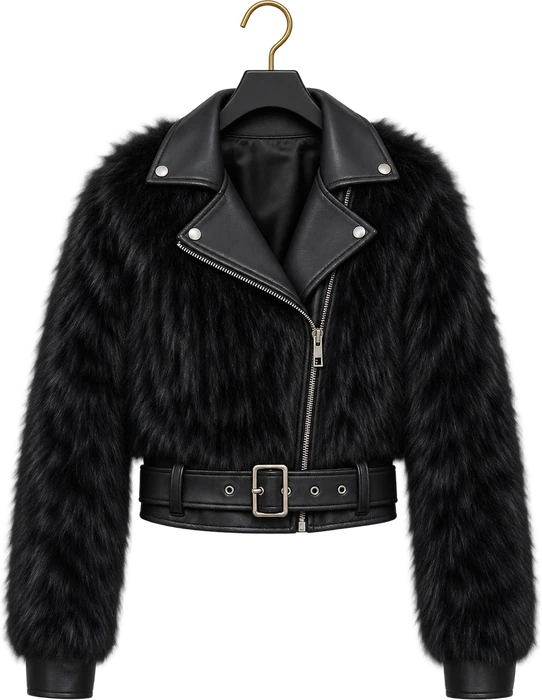
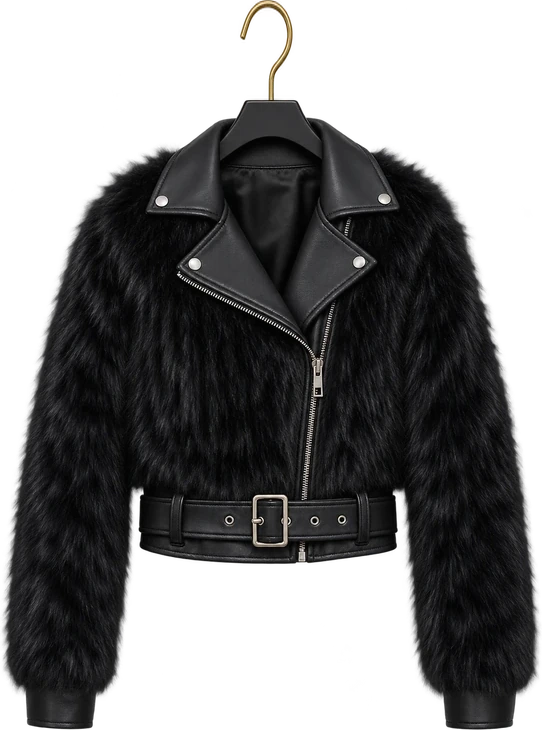
Vitrine: cabides na mesma altura (ganchos de tamanho igual), jaqueta vinho, conjunto caramelo e vestido creme espelhados
Claude-Session: https://claude.ai/code/session_01JWzVUcZkAyRrpFP19gM6id

diff --git a/index.html b/index.html
@@ -1674,7 +1674,7 @@ function basketSway(){
    As imagens já trazem gancho dourado e cabide; cada gancho é alinhado à barra da arara. */
 (function evyMountStorePieces(){
  const SW=1671,SH=941,BAR_Y=187.5,CX0=492,CSTEP=56.33;
- const cfg=[{"id": "biker", "label": "Jaqueta biker preta", "H": 236, "front": {"src": "assets/pecas/jaqueta-biker-frontal.png", "w": 290, "h": 426, "rx": 0.5183, "ry": 0.0385}, "side": {"src": "assets/pecas/jaqueta-biker-lateral.png", "w": 196, "h": 433, "rx": 0.4908, "ry": 0.0393}}, {"id": "pelobiker", "label": "Jaqueta biker com pelo", "H": 236, "front": {"src": "assets/pecas/jaqueta-pelo-frontal.webp", "w": 542, "h": 700, "rx": 0.4713, "ry": 0.0113}, "side": {"src": "assets/pecas/jaqueta-pelo-frontal.webp", "w": 542, "h": 700, "rx": 0.4713, "ry": 0.0113}}, {"id": "fur", "label": "Casaco preto de pelos", "H": 250, "front": {"src": "assets/pecas/casaco-pelo-frontal.png", "w": 319, "h": 446, "rx": 0.5043, "ry": 0.0361}, "side": {"src": "assets/pecas/casaco-pelo-lateral.png", "w": 218, "h": 465, "rx": 0.4928, "ry": 0.0351}}, {"id": "redinha", "label": "Body de redinha preto", "H": 312, "front": {"src": "assets/pecas/body-redinha-frontal.webp", "w": 377, "h": 700, "rx": 0.5013, "ry": 0.0164}, "side": {"src": "assets/pecas/body-redinha-lateral.webp", "w": 366, "h": 700, "rx": 0.4988, "ry": 0.0281}}, {"id": "renda", "label": "Vestido preto de renda com corset", "H": 425, "front": {"src": "assets/pecas/vestido-renda-frontal.webp", "w": 351, "h": 700, "rx": 0.4621, "ry": 0.0096}, "side": {"src": "assets/pecas/vestido-renda-lateral.webp", "w": 290, "h": 700, "rx": 0.4984, "ry": 0.0087}}, {"id": "assimetrico", "label": "Vestido preto assimétrico", "H": 405, "front": {"src": "assets/pecas/vestido-assimetrico-frontal.png", "w": 179, "h": 499, "rx": 0.5174, "ry": 0.0297}, "side": {"src": "assets/pecas/vestido-assimetrico-lateral.png", "w": 139, "h": 505, "rx": 0.476, "ry": 0.0313}}, {"id": "balone", "label": "Vestido preto balonê", "H": 370, "front": {"src": "assets/pecas/vestido-veludo-frontal.png", "w": 250, "h": 466, "rx": 0.456, "ry": 0.0105}, "side": {"src": "assets/pecas/vestido-veludo-lateral.png", "w": 214, "h": 449, "rx": 0.5252, "ry": 0.033}}, {"id": "marrom", "label": "Vestido marrom balonê", "H": 370, "front": {"src": "assets/pecas/vestido-marrom-frontal.png", "w": 251, "h": 442, "rx": 0.5428, "ry": 0.0342}, "side": {"src": "assets/pecas/vestido-marrom-lateral.png", "w": 202, "h": 434, "rx": 0.4328, "ry": 0.0136}}, {"id": "vinho", "label": "Jaqueta vinho de verniz", "H": 236, "front": {"src": "assets/pecas/jaqueta-vinho-frontal.webp", "w": 529, "h": 700, "rx": 0.4981, "ry": 0.031}, "side": {"src": "assets/pecas/jaqueta-vinho-lateral.webp", "w": 442, "h": 700, "rx": 0.5046, "ry": 0.0267}}, {"id": "oliva", "label": "Jaqueta verde-oliva com cinto", "H": 274, "front": {"src": "assets/pecas/jaqueta-oliva-frontal.webp", "w": 502, "h": 700, "rx": 0.505, "ry": 0.0289}, "side": {"src": "assets/pecas/jaqueta-oliva-lateral.webp", "w": 419, "h": 700, "rx": 0.497, "ry": 0.0276}}, {"id": "caramelo", "label": "Conjunto caramelo em couro", "H": 350, "front": {"src": "assets/pecas/conjunto-caramelo-frontal.webp", "w": 516, "h": 700, "rx": 0.4963, "ry": 0.0396}, "side": {"src": "assets/pecas/conjunto-caramelo-lateral.webp", "w": 489, "h": 700, "rx": 0.4824, "ry": 0.0396}}, {"id": "creme", "label": "Vestido creme drapeado", "H": 400, "front": {"src": "assets/pecas/vestido-creme-lateral.webp", "w": 275, "h": 700, "rx": 0.4716, "ry": 0.0264}, "side": {"src": "assets/pecas/vestido-creme-lateral.webp", "w": 275, "h": 700, "rx": 0.4716, "ry": 0.0264}}, {"id": "branco", "label": "Vestido branco longo", "H": 578, "front": {"src": "assets/pecas/vestido-branco-frontal.webp", "w": 221, "h": 700, "rx": 0.4824, "ry": 0.0061}, "side": {"src": "assets/pecas/vestido-branco-lateral.webp", "w": 213, "h": 700, "rx": 0.5763, "ry": 0.0053}}];
+ const cfg=[{"id": "biker", "label": "Jaqueta biker preta", "H": 236, "front": {"src": "assets/pecas/jaqueta-biker-frontal.png", "w": 290, "h": 435, "rx": 0.5187, "ry": 0.043}, "side": {"src": "assets/pecas/jaqueta-biker-lateral.png", "w": 196, "h": 440, "rx": 0.4895, "ry": 0.0448}}, {"id": "pelobiker", "label": "Jaqueta biker com pelo", "H": 236, "front": {"src": "assets/pecas/jaqueta-pelo-frontal.webp", "w": 542, "h": 730, "rx": 0.4724, "ry": 0.0421}, "side": {"src": "assets/pecas/jaqueta-pelo-frontal.webp", "w": 542, "h": 730, "rx": 0.4724, "ry": 0.0421}}, {"id": "fur", "label": "Casaco preto de pelos", "H": 250, "front": {"src": "assets/pecas/casaco-pelo-frontal.png", "w": 319, "h": 455, "rx": 0.5058, "ry": 0.0426}, "side": {"src": "assets/pecas/casaco-pelo-lateral.png", "w": 218, "h": 470, "rx": 0.4912, "ry": 0.0391}}, {"id": "redinha", "label": "Body de redinha preto", "H": 312, "front": {"src": "assets/pecas/body-redinha-frontal.webp", "w": 377, "h": 704, "rx": 0.5253, "ry": 0.0321}, "side": {"src": "assets/pecas/body-redinha-lateral.webp", "w": 366, "h": 707, "rx": 0.4993, "ry": 0.0334}}, {"id": "renda", "label": "Vestido preto de renda com corset", "H": 425, "front": {"src": "assets/pecas/vestido-renda-frontal.webp", "w": 351, "h": 691, "rx": 0.5024, "ry": 0.024}, "side": {"src": "assets/pecas/vestido-renda-lateral.webp", "w": 290, "h": 694, "rx": 0.5065, "ry": 0.0244}}, {"id": "assimetrico", "label": "Vestido preto assimétrico", "H": 405, "front": {"src": "assets/pecas/vestido-assimetrico-frontal.png", "w": 179, "h": 489, "rx": 0.5114, "ry": 0.026}, "side": {"src": "assets/pecas/vestido-assimetrico-lateral.png", "w": 139, "h": 496, "rx": 0.4776, "ry": 0.0276}}, {"id": "balone", "label": "Vestido preto balonê", "H": 370, "front": {"src": "assets/pecas/vestido-veludo-frontal.png", "w": 250, "h": 456, "rx": 0.4979, "ry": 0.0279}, "side": {"src": "assets/pecas/vestido-veludo-lateral.png", "w": 214, "h": 440, "rx": 0.5238, "ry": 0.0289}}, {"id": "marrom", "label": "Vestido marrom balonê", "H": 370, "front": {"src": "assets/pecas/vestido-marrom-frontal.png", "w": 251, "h": 431, "rx": 0.5007, "ry": 0.0281}, "side": {"src": "assets/pecas/vestido-marrom-lateral.png", "w": 202, "h": 419, "rx": 0.4791, "ry": 0.0313}}, {"id": "vinho", "label": "Jaqueta vinho de verniz", "H": 236, "front": {"src": "assets/pecas/jaqueta-vinho-frontal.webp", "w": 529, "h": 725, "rx": 0.4985, "ry": 0.0419}, "side": {"src": "assets/pecas/jaqueta-vinho-lateral.webp", "w": 442, "h": 737, "rx": 0.4938, "ry": 0.0412}}, {"id": "oliva", "label": "Jaqueta verde-oliva com cinto", "H": 274, "front": {"src": "assets/pecas/jaqueta-oliva-frontal.webp", "w": 502, "h": 717, "rx": 0.5058, "ry": 0.0361}, "side": {"src": "assets/pecas/jaqueta-oliva-lateral.webp", "w": 419, "h": 721, "rx": 0.4973, "ry": 0.0368}}, {"id": "caramelo", "label": "Conjunto caramelo em couro", "H": 350, "front": {"src": "assets/pecas/conjunto-caramelo-frontal.webp", "w": 516, "h": 703, "rx": 0.4977, "ry": 0.0287}, "side": {"src": "assets/pecas/conjunto-caramelo-lateral.webp", "w": 489, "h": 691, "rx": 0.5162, "ry": 0.0292}}, {"id": "creme", "label": "Vestido creme drapeado", "H": 400, "front": {"src": "assets/pecas/vestido-creme-lateral.webp", "w": 275, "h": 697, "rx": 0.5231, "ry": 0.0255}, "side": {"src": "assets/pecas/vestido-creme-lateral.webp", "w": 275, "h": 697, "rx": 0.5231, "ry": 0.0255}}, {"id": "branco", "label": "Vestido branco longo", "H": 578, "front": {"src": "assets/pecas/vestido-branco-frontal.webp", "w": 221, "h": 700, "rx": 0.4824, "ry": 0.0186}, "side": {"src": "assets/pecas/vestido-branco-lateral.webp", "w": 213, "h": 698, "rx": 0.6338, "ry": 0.0182}}];
  const host=document.getElementById('storePieces');
  if(!host)return;
  // Peças novas: entram no catálogo (tamanho e valor sob consulta) com a foto de frente, já com cabide.
